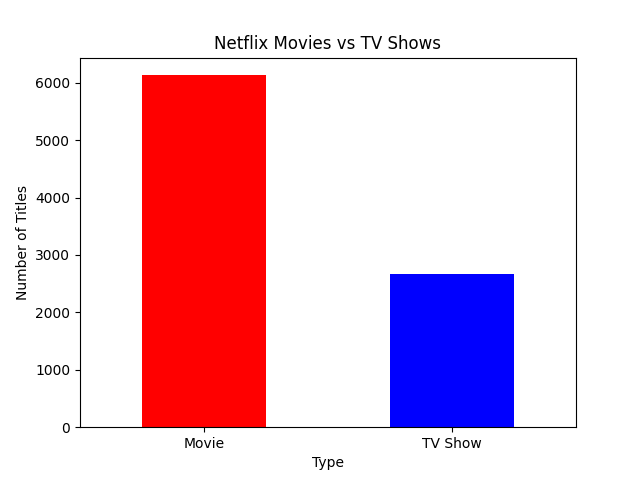
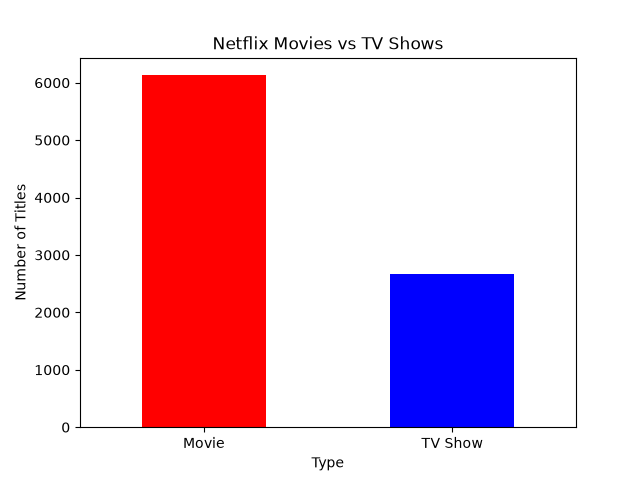
changed an error on last graph code

diff --git a/main.py b/main.py
@@ -78,20 +78,34 @@ plt.savefig("graphs/top_10_actors.png")
 plt.show()
 plt.close()
 
-
 # 5th graph, average movie duration by year
-# count actor appearances
-actors = df["cast"].dropna().str.split(",").explode().str.strip()
 
-top_actors = actors.value_counts().head(10)
+# select movies only
+movie_df = df[df["type"] == "Movie"].copy()
 
-top_actors.sort_values().plot(kind="barh", color="green")
+# convert duration strings into numbers
+movie_df["duration_minutes"] = pd.to_numeric(
+    movie_df["duration"].str.replace(" min", "", regex=False),
+    errors="coerce"
+)
 
-plt.title("Top 10 Most Featured Netflix Actors")
-plt.xlabel("Number of Titles")
-plt.ylabel("Actor")
+# remove missing durations
+movie_df = movie_df.dropna(subset=["duration_minutes"])
 
+# calculate average duration for each year
+average_duration = movie_df.groupby("release_year")[
+    "duration_minutes"
+].mean()
+
+# create graph
+average_duration.plot(kind="line", marker="o", color="red")
+
+plt.title("Average Movie Duration by Release Year")
+plt.xlabel("Release Year")
+plt.ylabel("Average Duration (Minutes)")
+
+plt.grid(True)
 plt.tight_layout()
-plt.savefig("graphs/top_10_actors.png")
+plt.savefig("graphs/average_movie_duration.png")
 plt.show()
 plt.close()
